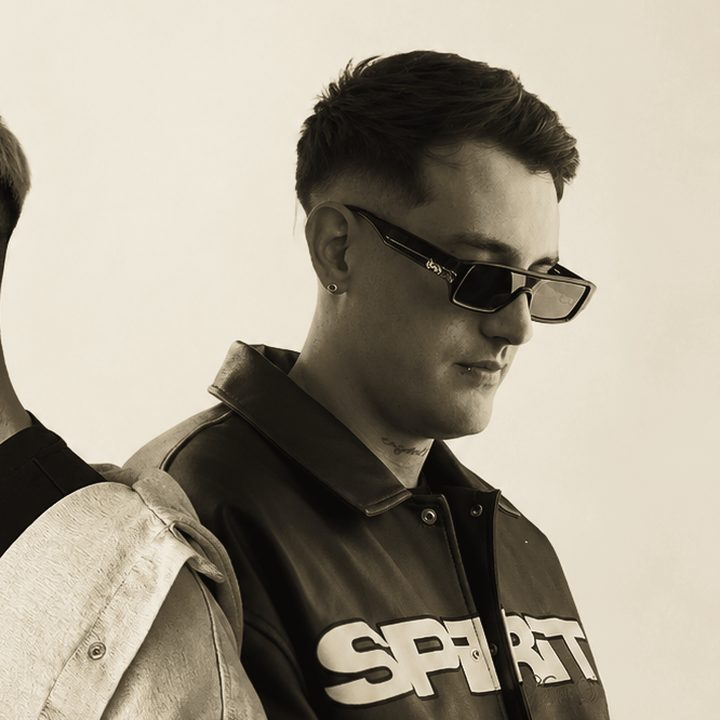
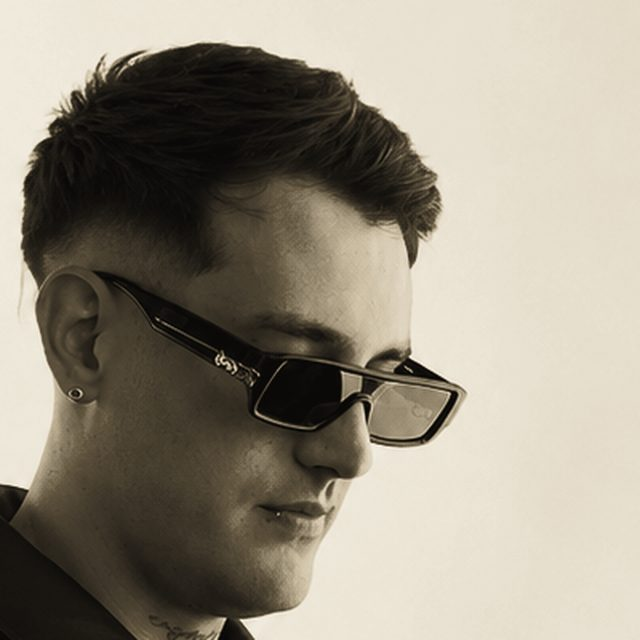
Gomez & Saint: retratos corregidos y avion animado punto a punto

diff --git a/index.html b/index.html
@@ -290,8 +290,8 @@ footer img{height:22px;width:auto;opacity:.9}
     </div>
   </div>
   <div class="two rv">
-    <a href="https://www.instagram.com/luchoogoomez" target="_blank" rel="noopener"><img src="assets/p_izq.jpg" alt="Gomez" loading="lazy"><span class="n mono">01 · DJ &amp; Productor</span><div class="ig"><div class="nm"><small>@luchoogoomez</small>Gomez</div><span class="ar">↗</span></div></a>
-    <a href="https://www.instagram.com/agussaint" target="_blank" rel="noopener"><img src="assets/p_der.jpg" alt="Agus Saint" loading="lazy"><span class="n mono">02 · DJ &amp; Productor</span><div class="ig"><div class="nm"><small>@agussaint</small>Saint</div><span class="ar">↗</span></div></a>
+    <a href="https://www.instagram.com/luchoogoomez" target="_blank" rel="noopener"><img src="assets/p_der.jpg" alt="Gomez" loading="lazy"><span class="n mono">01 · DJ &amp; Productor</span><div class="ig"><div class="nm"><small>@luchoogoomez</small>Gomez</div><span class="ar">↗</span></div></a>
+    <a href="https://www.instagram.com/agussaint" target="_blank" rel="noopener"><img src="assets/p_izq.jpg" alt="Agus Saint" loading="lazy"><span class="n mono">02 · DJ &amp; Productor</span><div class="ig"><div class="nm"><small>@agussaint</small>Saint</div><span class="ar">↗</span></div></a>
   </div>
 </section>
 
@@ -384,7 +384,7 @@ footer img{height:22px;width:auto;opacity:.9}
     <form><input type="password" placeholder="CLAVE" autocomplete="off" aria-label="Clave"><button class="btn fill" type="submit">Ver</button></form>
     <div class="err" role="alert"></div>
     <div class="hp-out" hidden></div>
[2 lines of base64/hex data omitted]
   </div>
 </section>
 
@@ -411,14 +411,19 @@ if(rt){var p26=$('#p26'),p27=$('#p27'),mk=$('#mk27'),pl=$('#plane'),yr=$('.yr'),
   if(d<=L26){p26.style.strokeDashoffset=L26-d;mk.style.strokeDashoffset=L27;pt=p26.getPointAtLength(d);pt2=p26.getPointAtLength(Math.min(L26,d+2))}
   else{p26.style.strokeDashoffset=0;var e=d-L27*0-L26;mk.style.strokeDashoffset=L27-e;pt=p27.getPointAtLength(e);pt2=p27.getPointAtLength(Math.min(L27,e+2))}
   var a=Math.atan2(pt2.y-pt.y,pt2.x-pt.x)*180/Math.PI;if(g>=.999)a=Math.atan2(pt.y-p27.getPointAtLength(L27-4).y,pt.x-p27.getPointAtLength(L27-4).x)*180/Math.PI;
-  pl.setAttribute('transform','translate('+pt.x+' '+pt.y+') rotate('+a+')');
+  pl.setAttribute('transform','translate('+pt.x+' '+pt.y+') rotate('+a+') scale(1.8)');
   nds.forEach(function(n){n.classList.toggle('hit',g>=parseFloat(n.dataset.at)-.003)});
   yr.textContent=d>L26+1?'2027':'2026'}
- function play(){cancelAnimationFrame(raf);var t0=null,D=12000;playing=true;
-  (function f(t){if(t0===null)t0=t;var k=Math.min(1,(t-t0)/D),g=k<.5?2*k*k:1-Math.pow(-2*k+2,2)/2;draw(g);if(k<1)raf=requestAnimationFrame(f);else playing=false})(performance.now())}
+ var bd=nds.map(function(n){return parseFloat(n.dataset.at)}),tm=0,vis=false;
+ function ease(k){return k<.5?2*k*k:1-Math.pow(-2*k+2,2)/2}
+ function play(){cancelAnimationFrame(raf);clearTimeout(tm);var i=0,t0=null,SEG=2300,DW=500;draw(0);
+  (function f(t){if(t0===null)t0=t;var k=Math.min(1,(t-t0)/SEG);draw(bd[i]+(bd[i+1]-bd[i])*ease(k));
+   if(k<1){raf=requestAnimationFrame(f);return}
+   i++;if(i>=bd.length-1){draw(1);tm=setTimeout(function(){if(vis)play()},3500);return}
+   tm=setTimeout(function(){t0=null;raf=requestAnimationFrame(f)},DW)})(performance.now())}
  draw(0);
  var rm=window.matchMedia&&matchMedia('(prefers-reduced-motion: reduce)').matches;
- if(rm){draw(1)}else if(window.IntersectionObserver){new IntersectionObserver(function(es,o){if(es[0].isIntersecting){play();o.disconnect()}},{threshold:.4}).observe(rt)}else draw(1);
+ if(rm){draw(1)}else if(window.IntersectionObserver){new IntersectionObserver(function(es){vis=es[0].isIntersecting;if(vis)play();else{cancelAnimationFrame(raf);clearTimeout(tm)}},{threshold:.3}).observe(rt)}else draw(1);
  $('.rtbar button').addEventListener('click',function(){if(rm)return;play()})}
 // reel de eventos: carga y reproduce solo lo visible
 var vids=$$('.ev video');
